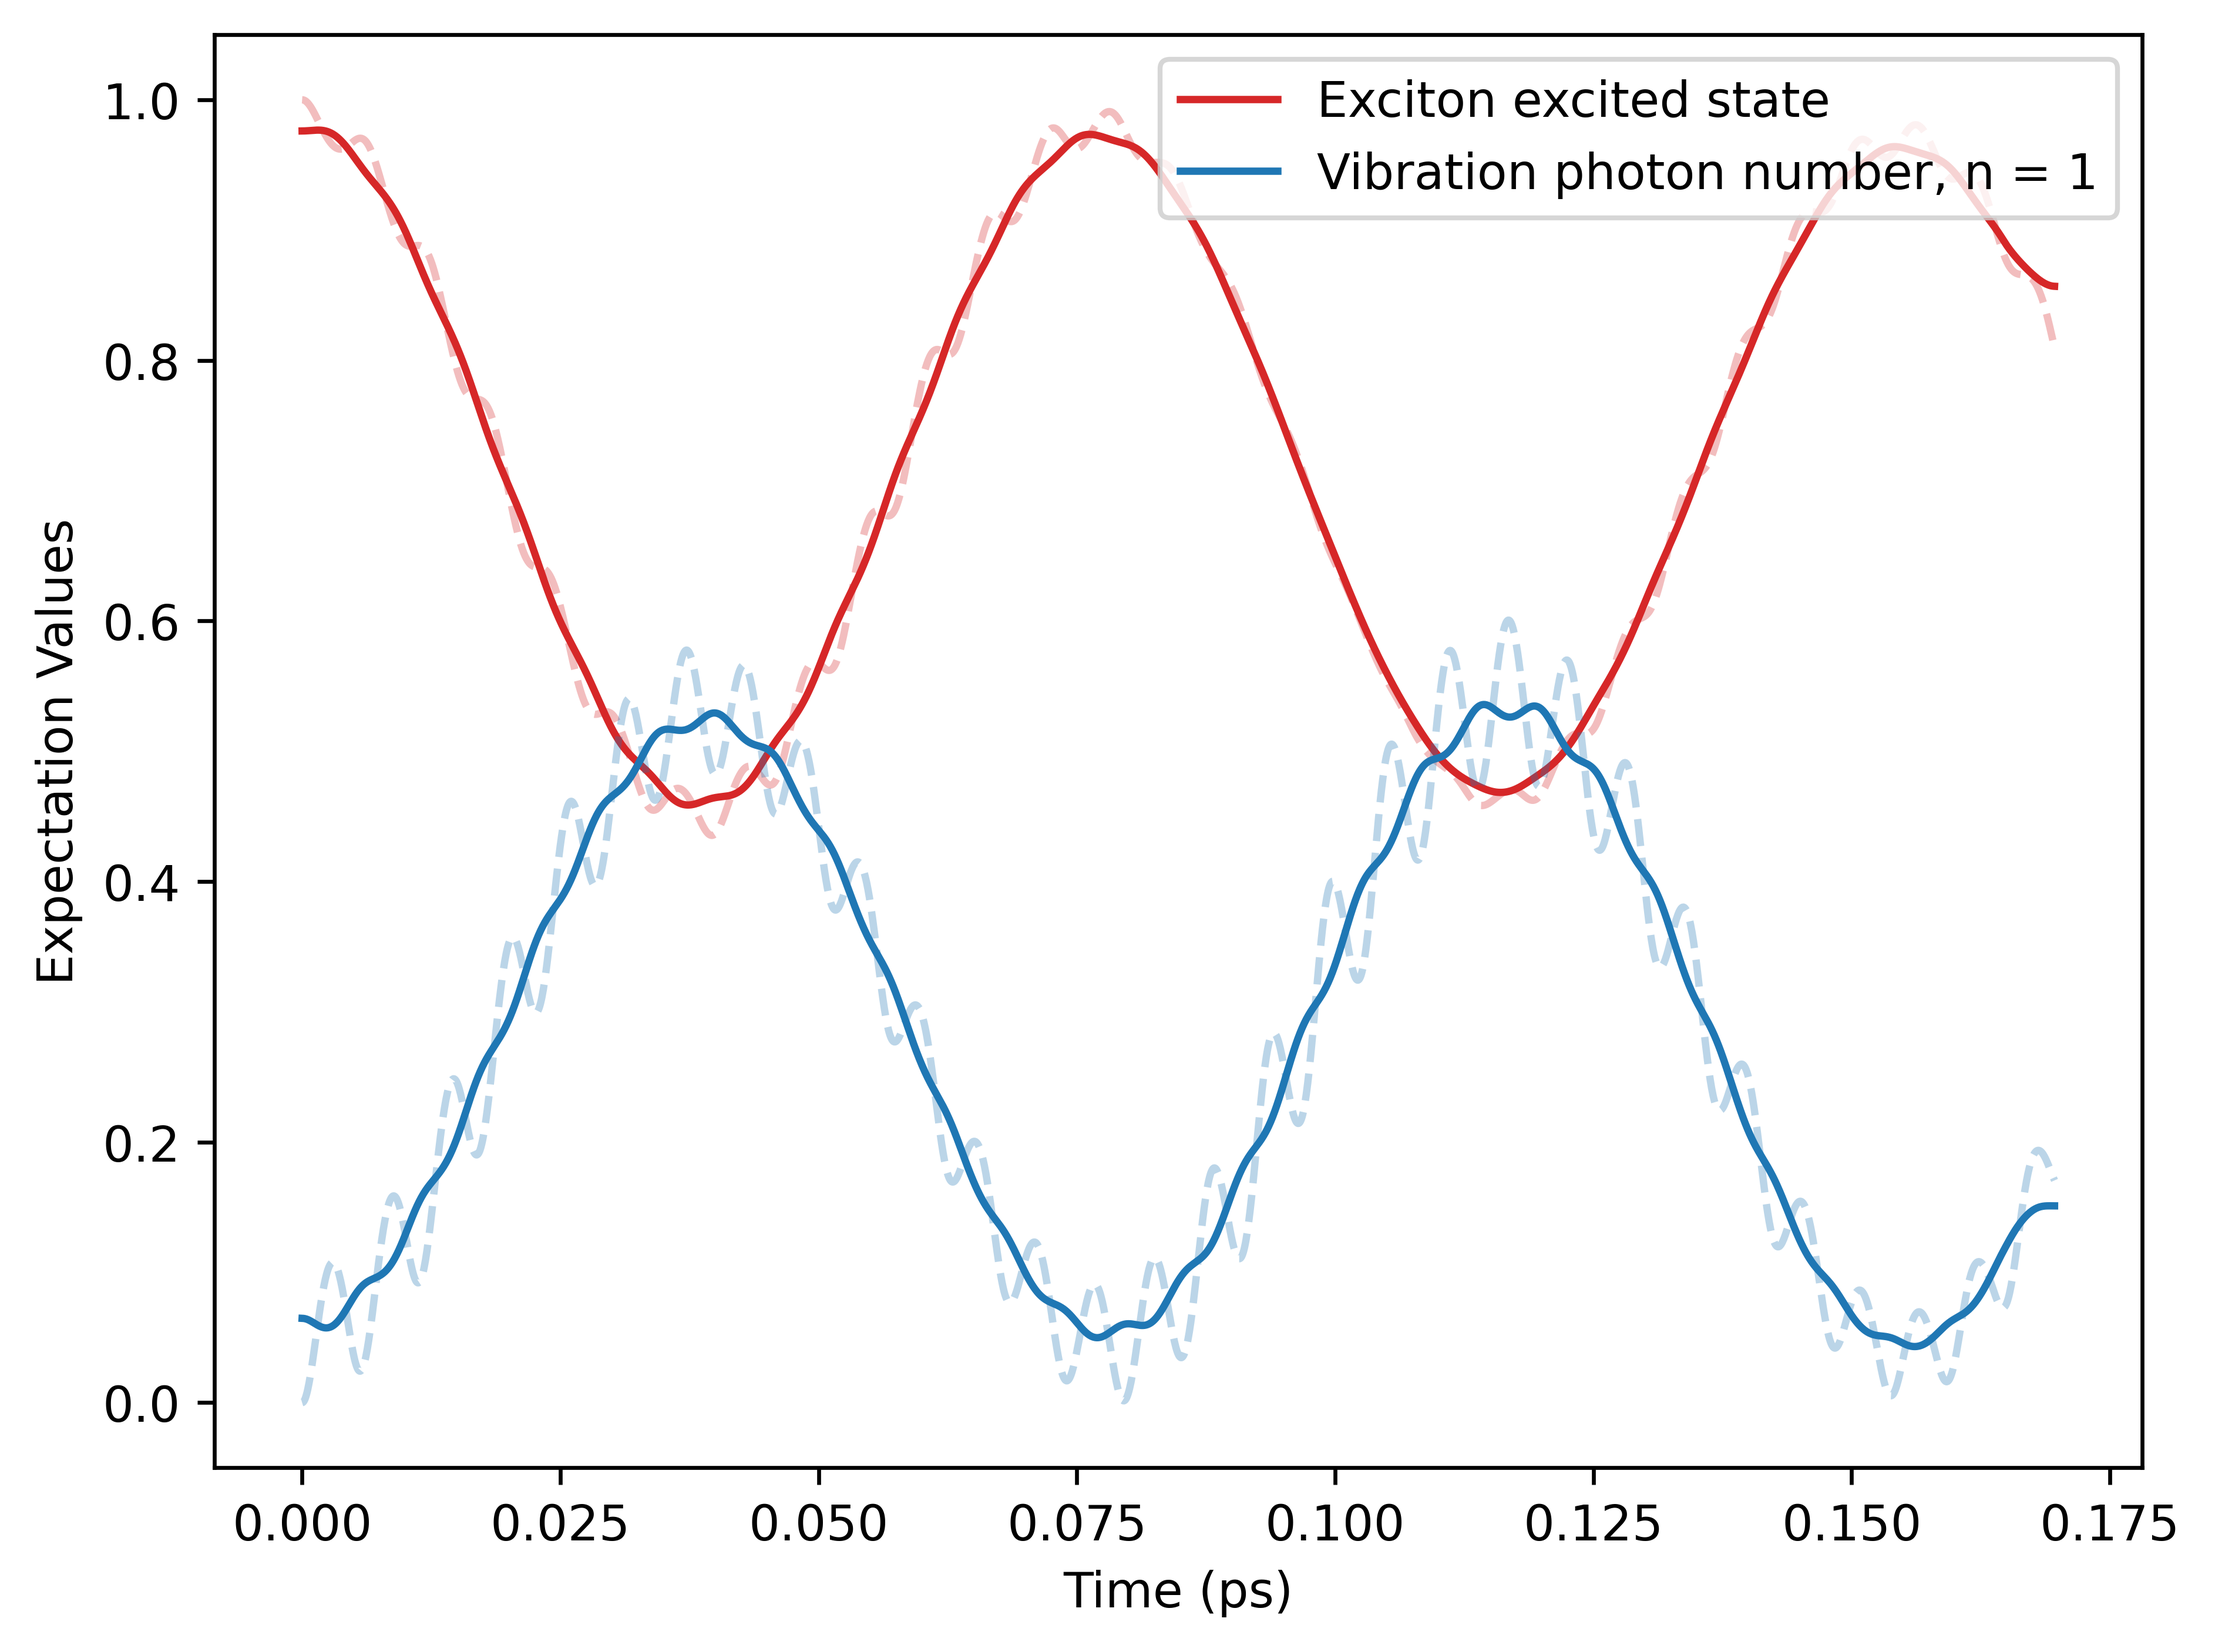
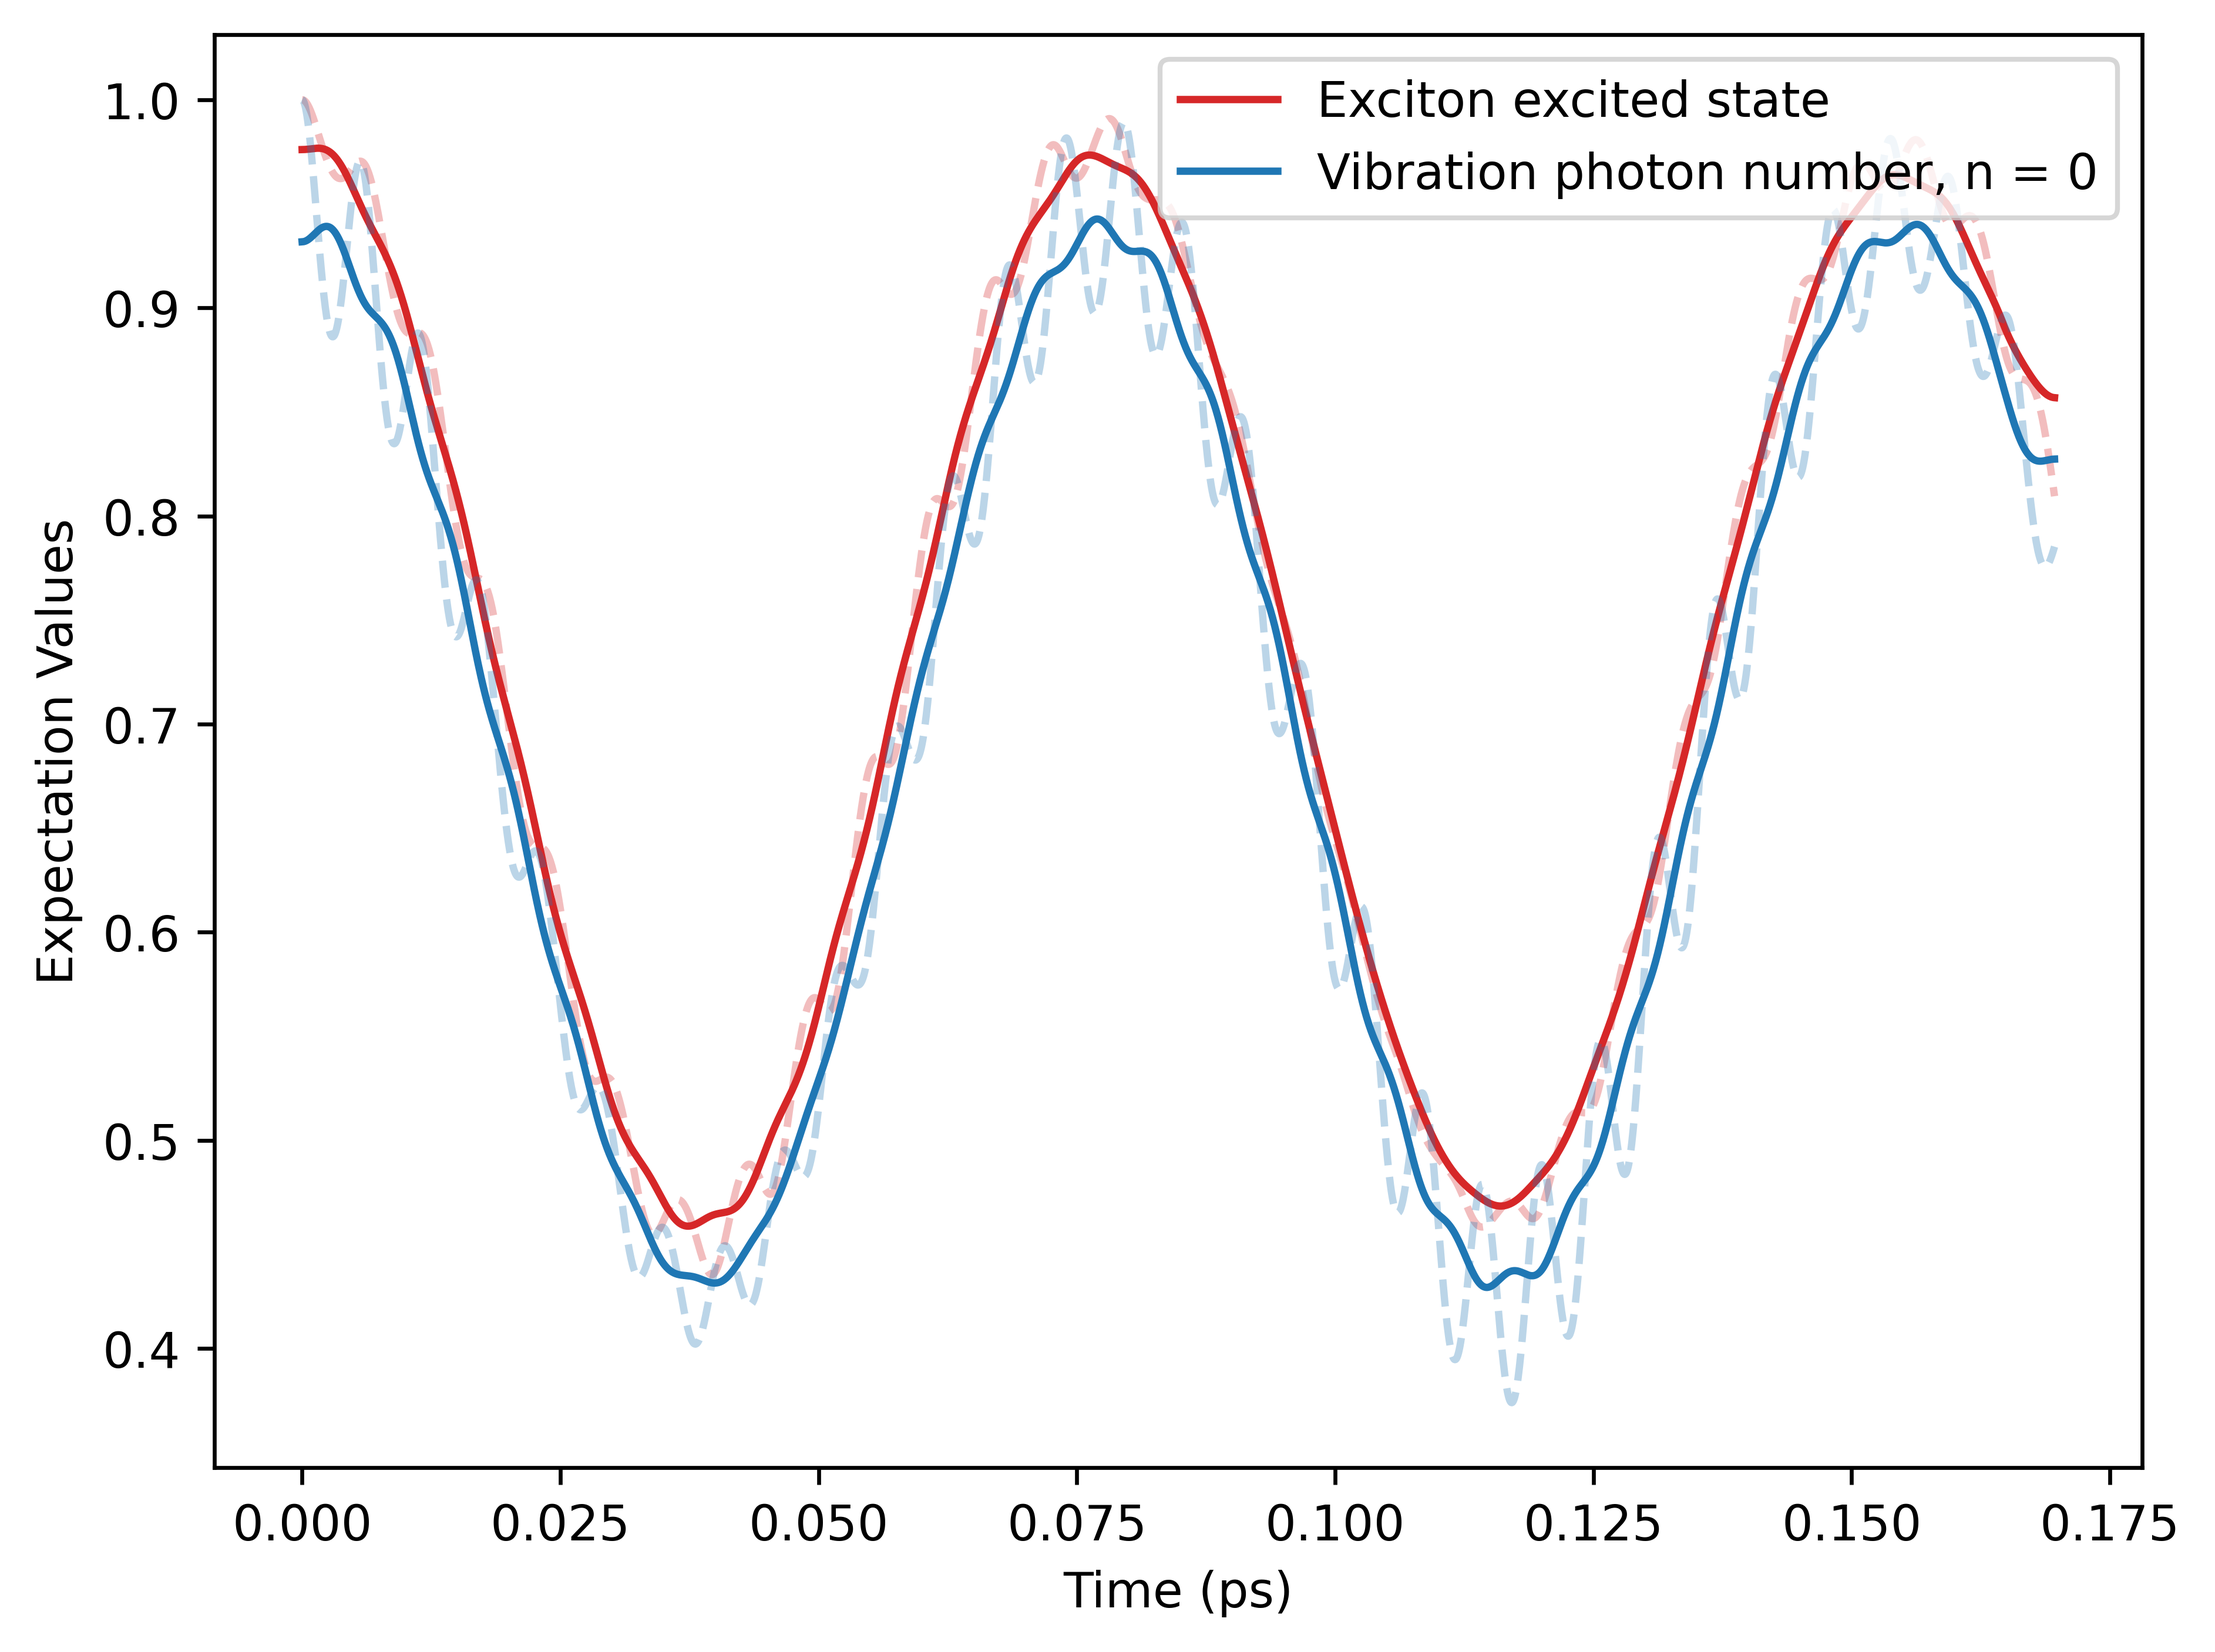
Plots a more sensible population QHO choice for the EVM simulations.

diff --git a/Research Project/Code/ExVib_Closed.py b/Research Project/Code/ExVib_Closed.py
@@ -12,8 +12,6 @@ import math
 # Moreover, T ~ 300K room temp expt.
 t_max_env = 5
 tlist_env = np.linspace(0.0, 2 * np.pi * 0.03 * t_max_env, 2500)
-t_max_env_long = 17
-tlist_env_long = np.linspace(0.0, 2 * np.pi * 0.03 * t_max_env_long, 2500)   
 t_max_fast = 0.9  
 tlist_fast = np.linspace(0.0, 2 * np.pi * 0.03 * t_max_fast, 2500)
 
@@ -52,8 +50,8 @@ H = H_ex + H_vib + H_int
 psi0_e0 = q.tensor(basis_atom_e, basis_qho_0)
 psi0_eg = q.tensor(basis_atom_e + basis_atom_g, basis_qho_0) / math.sqrt(2)
 ############################ SIMULATION ENV ###################################
-n1_pop = q.tensor(q.qeye(2), basis_qho_1 * basis_qho_1.dag())  # QHO pop |n=1>
-e_ops = [s_raise * s_lower, n1_pop]
+n0_pop = q.tensor(q.qeye(2), basis_qho_0 * basis_qho_0.dag())  # QHO pop |n=0>
+e_ops = [s_raise * s_lower, n0_pop]
 
 sim_e0_env = TLSQHOSimulator(H, psi0_e0, e_ops=e_ops, times=tlist_env)
 sim_eg_env = TLSQHOSimulator(H, psi0_eg, e_ops=e_ops, times=tlist_env)
@@ -111,7 +109,7 @@ sim_e0_env.plot(
         },
         {
             "y_data": results_expt_e0_env[1],
-            "label": "Vibration photon number, n = 1",
+            "label": "Vibration photon number, n = 0",
             "colour": "tab:blue",
         },
     ],
@@ -151,7 +149,7 @@ sim_eg_env.plot(
         },
         {
             "y_data": results_expt_eg_env[1],
-            "label": "Vibration photon number, n = 1",
+            "label": "Vibration photon number, n = 0",
             "colour": "tab:blue",
         },
     ],
@@ -193,7 +191,7 @@ sim_e0_fast.plot(
         },
         {
             "y_data": results_expt_e0_fast[1],
-            "label": "Vibration photon number, n = 1",
+            "label": "Vibration photon number, n = 0",
             "colour": "tab:blue",
         },
     ],
@@ -237,7 +235,7 @@ sim_eg_fast.plot(
         },
         {
             "y_data": results_expt_eg_fast[1],
-            "label": "Vibration photon number, n = 1",
+            "label": "Vibration photon number, n = 0",
             "colour": "tab:blue",
         },
     ],
